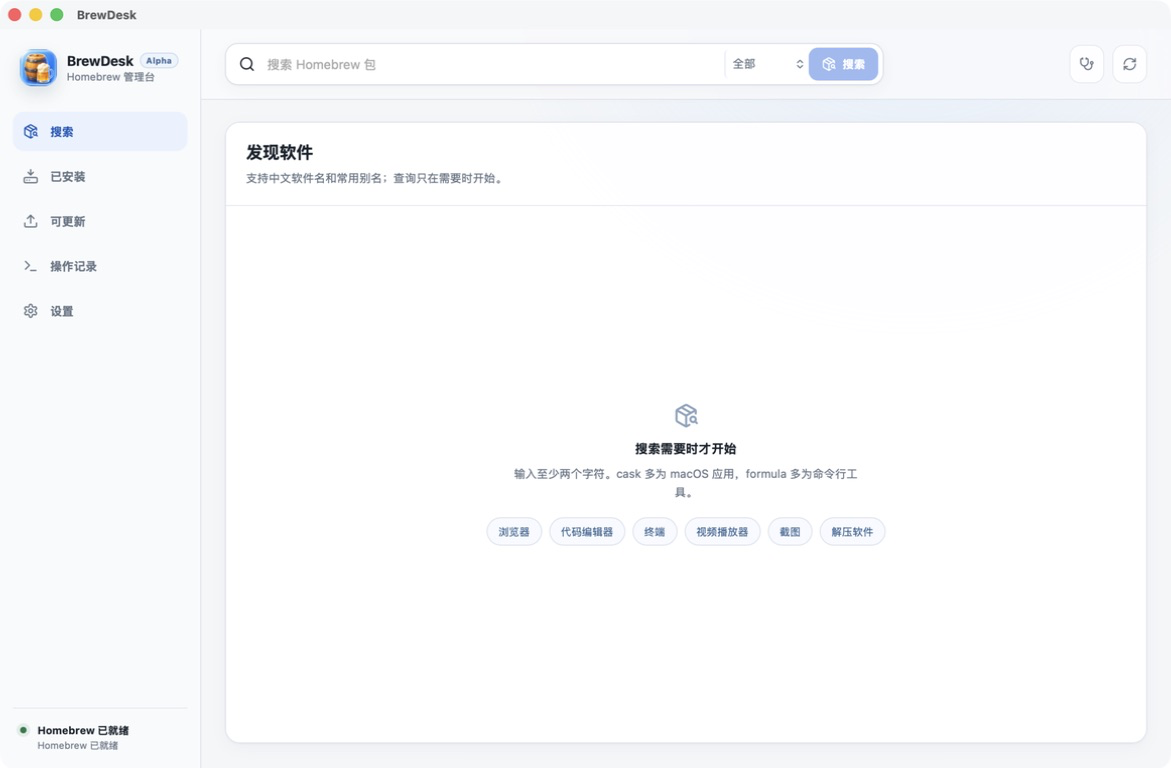
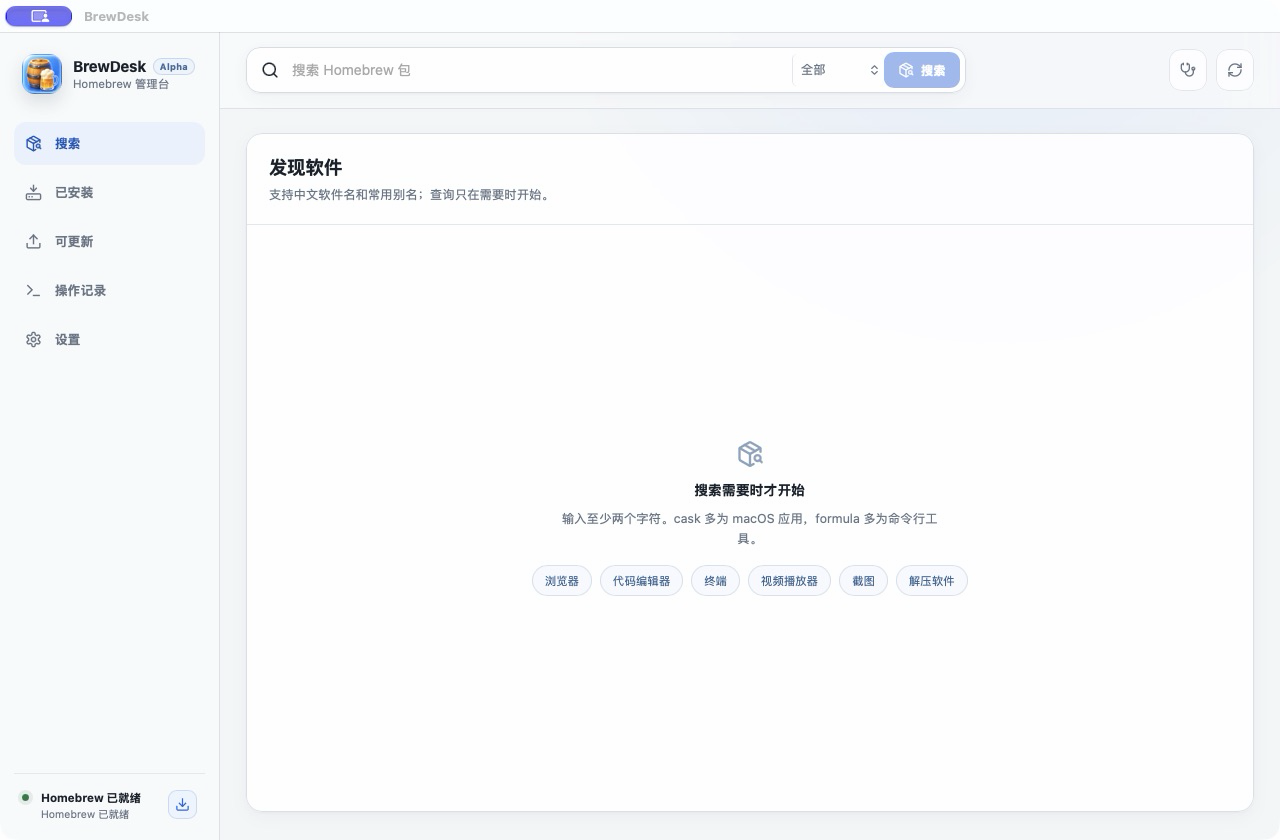
docs: refresh native screenshots and prepare alpha.2 source release

diff --git a/docs/verification-notes.md b/docs/verification-notes.md
@@ -1,35 +1,36 @@
 # 验证记录
 
+## 2026-11 源码预发布
 
-早期 Stage A 源码验证基线为前端 16 项、Rust 30 项；Release 记录了该版本的测试结果。这里保留的是已有记录，并非新一轮测试结果。跳过、忽略、过滤、待办或空测试不计入基线。
+本次实现提交为 [`ec1e933`](https://github.com/Tsing-duan/brewdesk-homebrew/commit/ec1e9330229ca53025ddb95652406b81e3e56286)。后续发布资料提交仅更新文档和截图，不改变该实现。
 
-截图来自实际 `.app` 构建，相关说明见[截图指南](screenshots/CAPTURE_GUIDE.md)。应用图标使用 Codex 生成，见[素材来源](ASSET_SOURCES.md)。
+| 检查 | 结果与范围 |
+| --- | --- |
+| 前端测试 | 35 项通过，无跳过 |
+| Rust 测试 | 43 项通过，无忽略或过滤 |
+| 源码检查 | TypeScript/Vite、Rust fmt、Clippy、shell/CI 合约通过 |
+| 构建边界 | 构建产物与 Tauri 生成文件位于仓库外 |
+| 原生应用 | arm64 `.app` 构建、Info.plist、ad-hoc 签名结构检查通过 |
+| 秘密扫描 | 动态 Canary、公开源码与完整 Git 历史扫描通过 |
+| npm 审计 | 零漏洞条目 |
+| RustSec 审计 | 零漏洞条目；保留两项信息性警告，见下文 |
 
-- [路线图](ROADMAP.md)
-- [贡献指南](../CONTRIBUTING.md)与[仓库开发说明](../AGENTS.md)
-- [问题反馈](../SUPPORT.md)与[安全问题报告](../SECURITY.md)
+[实现提交的 GitHub CI](https://github.com/Tsing-duan/brewdesk-homebrew/actions/runs/42214098425) 三项任务全部通过。CI 使用 macOS 26；最新发布提交的 CI 可从 [Actions](https://github.com/Tsing-duan/brewdesk-homebrew/actions) 查看。
 
+Rust 警告仍包括：`proc-macro-error` 1.0.4 停止维护（RUSTSEC-2024-0370），以及 `glib` 0.18.5 的 unsoundness 警告（RUSTSEC-2024-0429）。不能将零漏洞条目理解为没有任何安全提示。依赖变化见[维护说明](MAINTENANCE_2026-11.md)。
 
-## 发行前仍需完成的工作
+## 界面证据
 
-目前没有公开安装包。发布二进制前仍需整理对应版本的第三方许可声明，并完成 Developer ID 签名和 Apple 公证。许可要求见 [NOTICE.md](../NOTICE.md)。
+- 浏览器模拟预览检查了搜索、详情返回和设置，覆盖 1053、1440、390 CSS 像素宽度；不代表真实 Homebrew 执行。
+- 2026-11-06 从上述提交的真实 `.app` 拍摄搜索与设置页，运行环境是 macOS 27.0.1 / arm64。确认了应用启动及这两个界面的可见状态；这不等于完成 macOS 27 的全面兼容性验收。
+- 两张公开截图已逐张检查，未展示用户路径、软件库存、操作历史或凭据。转换为 PNG 并去除 EXIF/XMP 元数据；来源与哈希见[素材来源](ASSET_SOURCES.md)，流程见[截图指南](screenshots/CAPTURE_GUIDE.md)。
 
-## 实现与适用范围
+## 尚未完成的验证
 
-Homebrew 操作使用可执行文件与独立参数数组，变更目标先做严格校验，搜索文本支持 UTF-8。应用来源检测及网络检查的范围见[安全模型](SECURITY_MODEL.md)、[网络设置](NETWORK_ROUTING.md)和[已知限制](KNOWN_LIMITATIONS.md)。
+真实批量升级、更新后的所有应用启动、历史隐私权限提示、完整 VoiceOver 流程、全部对比度和交互状态仍未完成验收。当前截图和测试不能支持“所有设计规范都符合”的结论。
 
-## Source baseline details
+暂无公开安装包。二进制发布还需要对应版本的第三方许可材料、Developer ID 签名、Apple 公证和单独的发布授权，见 [NOTICE](../NOTICE.md)。
 
+## 历史基线
 
-- Homebrew actions are represented as an executable plus an argv array; package tokens are validated before execution.
-- UTF-8 is accepted for search text, but mutation targets use a strict token grammar.
-- BrewDesk does not persist proxy or mirror settings to Homebrew, macOS, or shell profiles.
-- BrewDesk does not collect sudo passwords. Interactive Homebrew installation is delegated to Terminal.
-- Other-source application detection is conservative. It cannot reliably distinguish every DMG, PKG, manual copy, or management-system installation.
-- No telemetry, account system, analytics SDK, or software-inventory upload is included.
-
-More detail is available in [Security Model](SECURITY_MODEL.md) and [Network Routing](NETWORK_ROUTING.md).
-
-
-The Stage A source baseline is 16 frontend tests and 30 Rust tests. Final counts may increase but must never fall below the re-verified baseline. Skipped, ignored, filtered, todo, or empty tests do not count.
-
+早期 Stage A 的基线为前端 16 项、Rust 30 项；历史资料保留在[Stage A 审计摘要](AUDIT_SUMMARY.md)和首个源码 Release。它们不代表本轮最新测试数量。跳过、忽略、过滤、待办或空测试不计入通过数量。

diff --git a/docs/RELEASE_PROCESS.md b/docs/RELEASE_PROCESS.md
@@ -1,26 +1,43 @@
-# Release Process
+# Source Release Process
 
-Stage A prepares a local public-release candidate. It does not configure a remote, create a tag, push, publish a Release, sign with Apple credentials, notarize, or contact a third party.
+The public repository is canonical. The first source prerelease,
+`v0.1.0-alpha.1`, was published on 2026-08-28. Early Stage A documents describe
+that initial export and its historical gates; their no-remote/no-tag rules are
+not requirements to erase the now-published repository.
 
-## Stage A gates
+## Maintenance prereleases
 
-1. Produce a sanitized allowlist export while keeping the original source read-only.
-2. Keep full audits and build products in separate private directories outside the repository.
-3. Verify Gitleaks 8.30.0 checksums and run a dynamic hit/no-hit Canary before each formal scan batch.
-4. Resolve dependency advisories and classify licenses as source blockers, binary-distribution blockers, or manual review requirements.
-5. Verify documentation, version mapping, pinned toolchains, full-SHA GitHub Actions, tests, external builds, built `Info.plist`, architecture, and ad-hoc code-signing structure.
-6. Only after every prerequisite, create a local Git history with a user-confirmed author name and exact GitHub noreply address.
-7. Prove no remote, no tag, and a clean worktree. Generate release notes and publication commands as drafts only.
-8. Obtain explicit approval before any Stage B publication action.
+1. Obtain explicit approval for the source release and its scope. Approval to
+   update source does not authorize publishing an application binary.
+2. Keep private inventories, ledgers, full audit logs, builds, and temporary
+   tools outside the repository. Preserve existing license and identity decisions.
+3. Verify the implementation with the pinned toolchains, relevant tests, audits,
+   secret scans, output boundaries, and native application checks. Evidence may
+   be reused for unchanged implementation; identify its exact commit and limits.
+4. Refresh both READMEs, verification records, release notes, screenshot provenance,
+   and links. Capture native screenshots using `screenshots/CAPTURE_GUIDE.md`.
+5. Check the exact staged public tree, local links, image metadata, secret-scan
+   Canary, and complete Git history. Push without rewriting published history.
+6. Confirm the release commit and its CI status. Create a new tag at that exact
+   commit, retain older tags/releases, and publish a GitHub prerelease with source
+   archives only. Do not mark an Alpha as a stable Latest release.
+7. Verify the published tag target, release text, prerelease flag, and absence of
+   binary assets. Save the publication receipt outside the repository.
 
 ## Version mapping
 
 - Tauri/macOS application version: `0.1.0`
 - macOS `CFBundleVersion`: `1`
-- Planned first public prerelease tag: `v0.1.0-alpha.1`
+- First source prerelease: `v0.1.0-alpha.1`
+- November 2026 source maintenance prerelease: `v0.1.0-alpha.2`
 
-If `package.json` ever uses a prerelease SemVer, it must not feed `CFBundleShortVersionString`. The built application's `Info.plist`, rather than source configuration alone, is authoritative verification evidence.
+Source prerelease tags identify source snapshots and do not change the app's
+numeric version mapping. Never feed prerelease SemVer into
+`CFBundleShortVersionString`. Inspect the built `Info.plist` for verification.
 
 ## Binary distribution
 
-Source-release approval does not approve binary distribution. Signing identity, notarization, stapling, redistribution obligations, asset rights, and supported-platform evidence remain separate. Stage A may verify an ad-hoc signature's structure without requiring Gatekeeper or notarization acceptance.
+Source-release approval does not approve binary distribution. Developer ID
+signing, notarization, stapling, redistribution obligations, asset rights, and
+supported-platform evidence remain separate. Ad-hoc signature verification is
+not Gatekeeper acceptance or Apple notarization.

diff --git a/docs/ASSET_SOURCES.md b/docs/ASSET_SOURCES.md
@@ -36,4 +36,25 @@ The source release contains no pre-generated curated Chinese description table. 
 
 Repository screenshots must be captured from the final rights-cleared BrewDesk build and privacy-reviewed before publication. They must not expose user paths, private software inventory, tester or recipient information, private commands, credentials, or unlicensed third-party artwork. Each retained screenshot is documented alongside its capture conditions.
 
[1 lines of base64/hex data omitted]
+The current screenshots were captured on 2026-11-06 from the verified native
+`BrewDesk.app`, built from source commit `ec1e9330229ca53025ddb95652406b81e3e56286`,
+on macOS 27.0.1 (`arm64`). This is a limited native UI observation, not a broader
+platform-support claim; the CI build environment remains macOS 26.
+
+- `brewdesk-search.png`: neutral initial search screen; no package inventory or operation history.
+- `brewdesk-settings.png`: status and download routes, with optional translation and advanced paths collapsed. The displayed Homebrew version is a capture-time local observation, not a claim about the latest upstream version.
+
+Both images were reviewed at full size. They contain no user names, home paths,
+private inventories, credentials, tester identities, or unrelated windows.
+Only existing project assets, interface icons, and rendered system fonts are shown.
+Original capture JPEGs were converted to PNG; EXIF and XMP metadata were removed.
+The final PNGs contain no text, EXIF, location, or timestamp metadata. No crop,
+composition, or redaction was applied. Private capture records retain revision,
+environment, rights basis, privacy review, and original captures.
+
+| Screenshot | SHA-256 |
+| --- | --- |
[2 lines of base64/hex data omitted]
+
+The former Stage A search screenshot remains available in Git history.

diff --git a/docs/launch/RELEASE_NOTES_v0.1.0-alpha.2.md b/docs/launch/RELEASE_NOTES_v0.1.0-alpha.2.md
@@ -1,0 +1,39 @@
+# BrewDesk v0.1.0-alpha.2 — 更新可靠性与界面维护
+
+这是源码预发布版本，提供 GitHub 自动生成的源码归档，没有 `.app`、DMG 或 PKG 安装包。
+
+## 更新内容
+
+- 更新后核对 Homebrew 安装记录和应用证据，改善下载进度解析与任务级网络路由。
+- 窄窗口导航保留文字标签；详情支持返回列表并保留结果与滚动位置。
+- 设置优先展示状态和下载线路，高级路径与可选翻译按需展开。
+- 更新兼容的 React、Tauri 和 Rust 依赖，包含 Tokio I/O 安全修补。
+- 同步中英文介绍、验证记录与真实原生应用截图。
+
+## 验证
+
+实现提交 `ec1e9330229ca53025ddb95652406b81e3e56286` 通过 35 项前端测试、43 项 Rust 测试、外部应用构建、签名结构检查和秘密扫描。
+
+- [实现提交的 CI（三项成功）](https://github.com/Tsing-duan/brewdesk-homebrew/actions/runs/42214098425)
+- [验证范围](https://github.com/Tsing-duan/brewdesk-homebrew/blob/v0.1.0-alpha.2/docs/verification-notes.md)
+- [维护说明](https://github.com/Tsing-duan/brewdesk-homebrew/blob/v0.1.0-alpha.2/docs/MAINTENANCE_2026-11.md)
+
+npm 与 RustSec 审计均为零漏洞条目；Rust 仍保留 `proc-macro-error` 停止维护及 `glib` unsoundness 两项信息性警告。CI 在 macOS 26 上运行；公开截图来自 macOS 27.0.1 / arm64 的真实应用，截图只证明所展示的界面状态。
+
+## 限制
+
+- 暂无 Developer ID 签名、公证或公开安装包。
+- 真实批量升级、历史隐私权限提示、完整可访问性和全部应用启动仍需进一步验收。
+- 不宣称 Intel、macOS 14/15 或所有其他系统版本已兼容。
+- 应用内部版本仍为 `0.1.0` / build `1`；源码标签用于区分发布快照。
+- 更新源码不会自动替换本机旧应用。
+
+## English summary
+
+Source-only prerelease with update-result verification, task-scoped network routing,
+compact navigation and detail-return fixes, progressive disclosure in Settings,
+and compatible dependency updates. The implementation passed 35 frontend and
+43 Rust tests plus all three CI jobs. Native screenshots and bilingual documentation
+are refreshed. Two Rust advisory warnings remain disclosed. No application binary,
+notarization, universal accessibility conformance, or complete real-upgrade
+acceptance is claimed.

diff --git a/README.md b/README.md
@@ -16,11 +16,21 @@ A Chinese-first desktop interface for Homebrew. Search packages, check what is i
 
 Homebrew operations that make changes run one at a time. See the [update notes](docs/UPDATE_RELIABILITY.md) for more detail.
 
+## This update
+
+Compact navigation keeps text labels. Package details have a return action that preserves search results and scroll position. Settings put status and download routes first, with advanced paths and optional translation disclosed on demand.
+
+![Native BrewDesk settings: status, download routes, and collapsed advanced options](docs/screenshots/brewdesk-settings.png)
+
+The implementation passed 35 frontend tests, 43 Rust tests, and [all three GitHub CI jobs](https://github.com/Tsing-duan/brewdesk-homebrew/actions/runs/42214098425). See the [maintenance notes](docs/MAINTENANCE_2026-11.md) for dependency changes, remaining audit warnings, and verification scope.
+
+Both screenshots were captured from the real `.app` on November 6, 2026, not a browser mock. Screenshots do not establish acceptance of real upgrades, permission prompts, or every interaction.
+
 ## Using and building BrewDesk
 
 This is a source Alpha. The verified environment is **Apple Silicon on macOS 26**. Intel Macs, macOS 14, and macOS 15 have not been verified.
 
-The [release page](https://github.com/Tsing-duan/brewdesk-homebrew/releases/tag/v0.1.0-alpha.1) provides source code. There is no application installer yet, and Developer ID signing and Apple notarization are not complete.
+The [release page](https://github.com/Tsing-duan/brewdesk-homebrew/releases/tag/v0.1.0-alpha.2) provides source code. There is no application installer yet, and Developer ID signing and Apple notarization are not complete.
 
 Building from source requires Node.js 24 and the repository's specified Rust toolchain. See the [development guide](docs/development.md) for environment setup, build-directory requirements, and check commands.
 

diff --git a/docs/OPEN_SOURCE_HISTORY.md b/docs/OPEN_SOURCE_HISTORY.md
@@ -1,7 +1,17 @@
 # Open Source History
 
-This repository is being prepared from a sanitized allowlist export of an earlier private working tree. Private distribution scripts, recipient data, tester data, manifests, generated artifacts, dependency directories, and build outputs are outside the public scope.
+This repository began as a sanitized allowlist export of an earlier private
+working tree. Private distribution scripts, recipient/tester data, manifests,
+generated artifacts, dependencies, and builds remain outside the public scope.
+The initial history represents the reviewed public candidate rather than all
+private development; it is not a claim that earlier development did not exist.
 
-The initial public history will represent the reviewed public source candidate rather than reproduce private development history. This boundary is intended to avoid publishing material that was never approved for public release; it is not a claim that the project had no earlier private development.
+The public repository became canonical with the first source prerelease,
+[`v0.1.0-alpha.1`](https://github.com/Tsing-duan/brewdesk-homebrew/releases/tag/v0.1.0-alpha.1),
+published on 2026-08-28. Subsequent fixes are recorded in its Git history.
 
-No remote, tag, or Release is created during Stage A. After explicit release approval and publication, the public repository is intended to become the canonical source location. Until that happens, this statement is an intended transition rather than a completed publication fact.
+Historical Stage A audit and launch documents retain their original context.
+Their statements about unconfigured remotes or unpublished releases describe
+that preparation stage, not the current repository. New source releases follow
+[the maintenance release process](RELEASE_PROCESS.md); binary distribution still
+requires separate approval and validation.

diff --git a/README.zh-CN.md b/README.zh-CN.md
@@ -16,11 +16,21 @@
 
 Homebrew 修改操作会依次执行。更多细节见[更新说明](docs/UPDATE_RELIABILITY.md)。
 
+## 本次更新
+
+窄窗口导航保留文字标签；详情页可返回列表并保留搜索结果与滚动位置。设置先显示状态和下载线路，高级路径与可选翻译按需展开。
+
+![BrewDesk 原生设置界面：状态、下载线路与折叠的高级选项](docs/screenshots/brewdesk-settings.png)
+
+本次实现通过 35 项前端测试、43 项 Rust 测试和[三项 GitHub CI 检查](https://github.com/Tsing-duan/brewdesk-homebrew/actions/runs/42214098425)。依赖更新、审计警告与验证范围见[维护说明](docs/MAINTENANCE_2026-11.md)。
+
+两张截图均于 2026-11-06 从真实 `.app` 拍摄，不是浏览器模拟预览。截图不代表真实安装更新、权限弹窗或全部交互已验收。
+
 ## 使用与构建
 
 目前是源码 Alpha，已验证环境为 **Apple Silicon Mac 和 macOS 26**。Intel Mac、macOS 14 和 macOS 15 尚未验证。
 
-[Release 页面](https://github.com/Tsing-duan/brewdesk-homebrew/releases/tag/v0.1.0-alpha.1)提供源码，暂时没有安装包，也未完成 Developer ID 签名和 Apple 公证。
+[Release 页面](https://github.com/Tsing-duan/brewdesk-homebrew/releases/tag/v0.1.0-alpha.2)提供源码，暂时没有安装包，也未完成 Developer ID 签名和 Apple 公证。
 
 从源码构建需要 Node.js 24 和仓库指定的 Rust 工具链。环境设置、构建目录要求与检查命令见[开发说明](docs/development.md)。
 

diff --git a/docs/ROADMAP.md b/docs/ROADMAP.md
@@ -2,12 +2,12 @@
 
 This is a bounded Alpha roadmap, not a delivery promise.
 
-## Public source candidate
+## Published source Alpha
 
 - Complete source and asset rights review.
 - Confirm the final Bundle Identifier, Git identity, repository owner, and public metadata.
 - Meet frontend, Rust, dependency-audit, secret-scan, external-build, and application-verification gates.
-- Publish only after explicit approval, with the public repository becoming canonical after release.
+- The public repository is canonical; source prereleases retain explicit approval and verification gates.
 
 ## Later validation
 
@@ -16,4 +16,4 @@ This is a bounded Alpha roadmap, not a delivery promise.
 - Evaluate additional macOS versions or architectures only with real build and runtime evidence.
 - Consider signed and notarized binary distribution only after its separate rights and release gates pass.
 
-Cloud services, accounts, telemetry, AI features, and broad UI redesign are not part of the current public Alpha preparation.
+Cloud services, accounts, telemetry, AI features, and broad UI redesign are not part of the current public Alpha.

diff --git a/docs/screenshots/CAPTURE_GUIDE.md b/docs/screenshots/CAPTURE_GUIDE.md
@@ -14,4 +14,4 @@ Before capture:
 
 Record privately the application revision, macOS version, capture date, screen, rights basis, privacy reviewer, and any redactions. Public files should use descriptive names and alt text without embedding personal metadata. Remove unnecessary EXIF or location metadata before inclusion.
 
-The retained Stage A search-screen screenshot completed these checks. Any replacement or additional screenshot must repeat the same content-rights and privacy review.
+The current search and settings screenshots completed these checks on 2026-11-06. Capture conditions and hashes are recorded in `../ASSET_SOURCES.md`; the Stage A screenshot remains in Git history. Every replacement or addition must repeat the same review.

diff --git a/docs/AUDIT_SUMMARY.md b/docs/AUDIT_SUMMARY.md
@@ -1,5 +1,7 @@
 # Public Audit Summary
 
+> Historical Stage A record, retained for provenance. The first source prerelease was published on 2026-08-28; statements below about an unpublished repository refer to that earlier preparation stage. For current status, see the [public releases](https://github.com/Tsing-duan/brewdesk-homebrew/releases) and current verification records.
+
 This is the redacted Stage A summary for the local BrewDesk public-release candidate. The complete report, command evidence, absolute paths, dependency inventories, tool artifacts, and audit deviation record are stored outside this repository with private `0700` directory and `0600` file permissions.
 
 ## Source

diff --git a/docs/launch/PUBLICATION_CHECKLIST.md b/docs/launch/PUBLICATION_CHECKLIST.md
@@ -1,5 +1,7 @@
 # Publication Checklist — Draft Only
 
+> Historical Stage A record, retained for provenance. The first source prerelease was published on 2026-08-28; statements below about an unpublished repository refer to that earlier preparation stage. For current status, see the [public releases](https://github.com/Tsing-duan/brewdesk-homebrew/releases) and current verification records.
+
 This checklist prepares a possible Stage B. It does not authorize repository creation, remote configuration, push, tag creation, Release creation, binary upload, or third-party contact.
 
 ## Confirmed Stage A decisions

diff --git a/docs/launch/RELEASE_NOTES_v0.1.0-alpha.1.md b/docs/launch/RELEASE_NOTES_v0.1.0-alpha.1.md
@@ -1,5 +1,7 @@
 # BrewDesk v0.1.0-alpha.1 Release Notes — Draft
 
+> Historical Stage A record, retained for provenance. The first source prerelease was published on 2026-08-28; statements below about an unpublished repository refer to that earlier preparation stage. For current status, see the [public releases](https://github.com/Tsing-duan/brewdesk-homebrew/releases) and current verification records.
+
 Status: publication draft only. No tag or Release exists, and binary distribution is not approved.
 
 ## Summary
